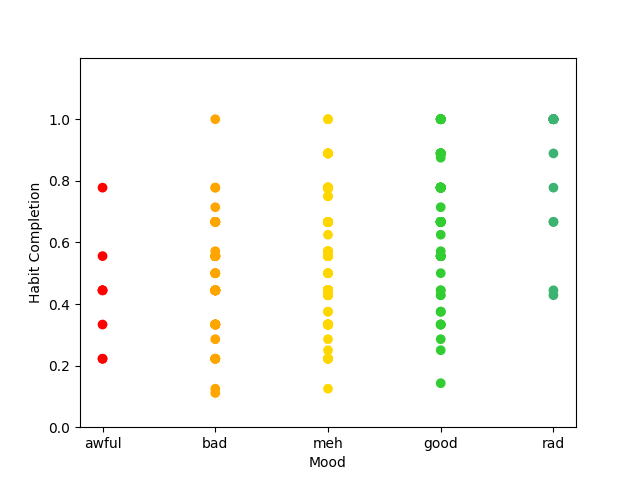
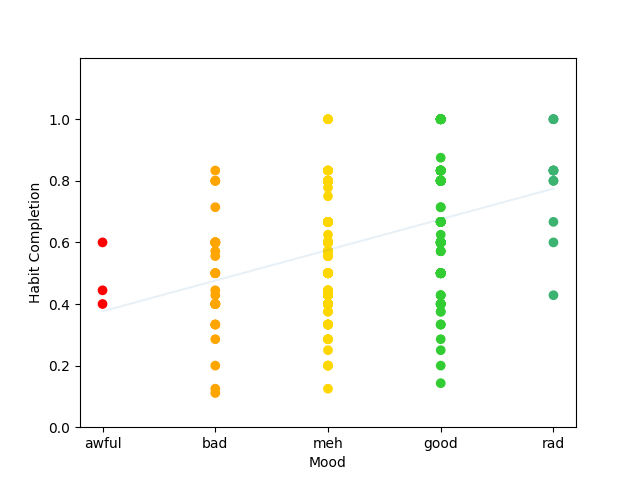
Add custom start/end dates & scatter line fit

diff --git a/line.py b/line.py
@@ -1,4 +1,4 @@
-#v0.3
+#v0.4
 
 import analysis
 import habo
@@ -6,16 +6,18 @@ import daylio
 from datetime import datetime,timedelta
 import numpy as np
 import math
+import sys
+import matplotlib.pyplot as plt
 
 HABO_FILENAME=habo.get_filename()
 DAYLIO_FILENAME=daylio.get_filename()
 
 def rolling_average(list):
-    CHUNK_SIZE=math.ceil(len(list)/100)
+    CHUNK_SIZE=math.ceil(len(list)/50)
 
     newlist=[]
     for i in range(0,len(list),CHUNK_SIZE):
-        newlist.append(sum(list[i:i+CHUNK_SIZE])/CHUNK_SIZE)
+        newlist.append(sum(list[i:i+CHUNK_SIZE])/len(list[i:i+CHUNK_SIZE]))
 
     list[:]=newlist
 
@@ -23,20 +25,46 @@ print("Analyzing data...")
 
 start_end_dates=analysis.get_start_end_days(HABO_FILENAME,DAYLIO_FILENAME)
 
-start_date = start_end_dates[0]
-end_date = start_end_dates[1]
+if(len(sys.argv)==3 and len(sys.argv[1])==len(sys.argv[2]) and len(sys.argv[1])==10): #if correctly passed start, end dates
+    try:
+        start_date=sys.argv[1]
+        date=datetime.strptime(start_date,"%Y-%m-%d")
+        end_date=sys.argv[2]
+
+    except ValueError:
+        print("Incorrect start date format")
+        sys.exit()
+
+    try:
+        assert((date-datetime.strptime(start_end_dates[0],"%Y-%m-%d")).days >=0)
+    except:
+        print(f"Error: Start date is not within data range\nAllowed range is: {start_end_dates[0]} to {start_end_dates[1]}")
+        sys.exit()
+
+    try:
+        assert((datetime.strptime(end_date,"%Y-%m-%d")-datetime.strptime(start_end_dates[1],"%Y-%m-%d")).days <=0)
+    except:
+        print(f"Error: End date is not within data range\nAllowed range is: {start_end_dates[0]} to {start_end_dates[1]}")
+        sys.exit()
+
+    num_days=(datetime.strptime(end_date,"%Y-%m-%d")-date).days + 1
+else:
+    start_date = start_end_dates[0]
+    end_date = start_end_dates[1]
+
+    date=datetime.strptime(start_date, "%Y-%m-%d")
+
+    num_days=analysis.get_total_days(HABO_FILENAME,DAYLIO_FILENAME)
 
 y_daylio=[]
 y_habo=[]
-date=datetime.strptime(start_date, "%Y-%m-%d")
-for i in range(analysis.get_total_days(HABO_FILENAME,DAYLIO_FILENAME)):
+
+for i in range(num_days):
     y_daylio.append(daylio.get_mood_for_date(date.strftime("%Y-%m-%d"),DAYLIO_FILENAME))
     y_habo.append(habo.get_completion_for_day(date.strftime("%Y-%m-%d"),HABO_FILENAME))
     date+=timedelta(days=1)
 
 print("Generating line plot...")
-
-import matplotlib.pyplot as plt
 
 assert(len(y_daylio)!=0 and len(y_habo)!=0)
 rolling_average(y_daylio)
@@ -46,7 +74,7 @@ x = np.arange(0, len(y_daylio), 1)
 fig,daylio_axis=plt.subplots()
 daylio_line = daylio_axis.plot(x,y_daylio,label="Daylio",color="blue")
 daylio_axis.set_ylabel("Mood")
-daylio_axis.set_xticks([x[50],x[len(x)-10]],labels=["2024-11-04", "2025-11-04"]) #needs update
+daylio_axis.set_xticks([x[0],x[len(x)-1]],labels=[start_date,end_date])
 daylio_axis.set_xlabel("Date")
 
 habo_axis = daylio_axis.twinx()

diff --git a/scatter.py b/scatter.py
@@ -1,33 +1,72 @@
-#v0.2
+#v0.3
 
 import analysis
 import habo
 import daylio
 from datetime import datetime,timedelta
+import sys
+import matplotlib.pyplot as plt
+from matplotlib.colors import ListedColormap
+import numpy as np
 
 HABO_FILENAME=habo.get_filename()
 DAYLIO_FILENAME=daylio.get_filename()
 
 print("Analyzing data...")
 
+start_end_dates=analysis.get_start_end_days(HABO_FILENAME,DAYLIO_FILENAME)
+
+if(len(sys.argv)==3 and len(sys.argv[1])==len(sys.argv[2]) and len(sys.argv[1])==10): #if correctly passed start, end dates
+    try:
+        start_date=sys.argv[1]
+        date=datetime.strptime(start_date,"%Y-%m-%d")
+        end_date=sys.argv[2]
+
+    except ValueError:
+        print("Incorrect start date format")
+        sys.exit()
+
+    try:
+        assert((date-datetime.strptime(start_end_dates[0],"%Y-%m-%d")).days >=0)
+    except:
+        print(f"Error: Start date is not within data range\nAllowed range is: {start_end_dates[0]} to {start_end_dates[1]}")
+        sys.exit()
+
+    try:
+        assert((datetime.strptime(end_date,"%Y-%m-%d")-datetime.strptime(start_end_dates[1],"%Y-%m-%d")).days <=0)
+    except:
+        print(f"Error: End date is not within data range\nAllowed range is: {start_end_dates[0]} to {start_end_dates[1]}")
+        sys.exit()
+
+    num_days=(datetime.strptime(end_date,"%Y-%m-%d")-date).days + 1
+else:
+    start_date = start_end_dates[0]
+    end_date = start_end_dates[1]
+
+    date=datetime.strptime(start_date, "%Y-%m-%d")
+
+    num_days=analysis.get_total_days(HABO_FILENAME,DAYLIO_FILENAME)
+
 data_x=[]
 data_y=[]
 
-date=datetime.strptime("2024-10-01", "%Y-%m-%d")
-for i in range(analysis.get_total_days(HABO_FILENAME,DAYLIO_FILENAME)):
+for i in range(num_days):
     data_x.append(daylio.get_mood_for_date(date.strftime("%Y-%m-%d"),DAYLIO_FILENAME))
     data_y.append(habo.get_completion_for_day(date.strftime("%Y-%m-%d"),HABO_FILENAME))
     date+=timedelta(days=1)
 
 print("Generating scatter plot...")
 
-import matplotlib.pyplot as plt
-from matplotlib.colors import ListedColormap
-import numpy as np
-
 daylio_cmap = ListedColormap(daylio.DAYLIO_MOOD_COLOURS)
 
+m,b=np.polyfit(data_x,data_y,1)
+print(m)
+print(b)
+print(data_x[0])
+x=np.array([1,2,3,4,5])
+
 plt.scatter(data_x, data_y,c=data_x,cmap=daylio_cmap)
+plt.plot(x,m*x+b,alpha=0.1)
 plt.ylim(0.0, 1.2)
 plt.xticks(list(daylio.DAYLIO_MOOD_TO_INT.values()),labels=list(daylio.DAYLIO_MOOD_TO_INT.keys()))
 plt.yticks([0.0,0.2,0.4,0.6,0.8,1.0])
